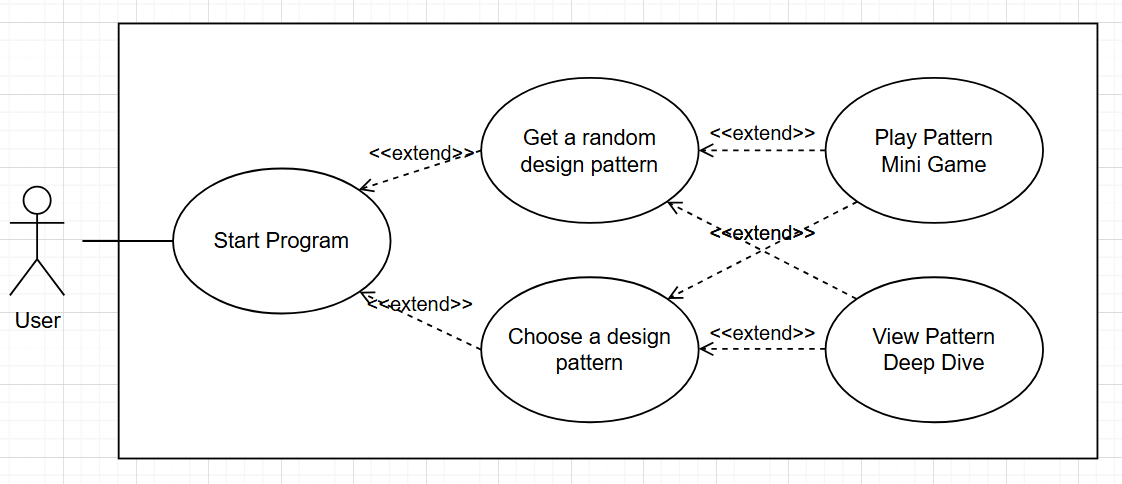
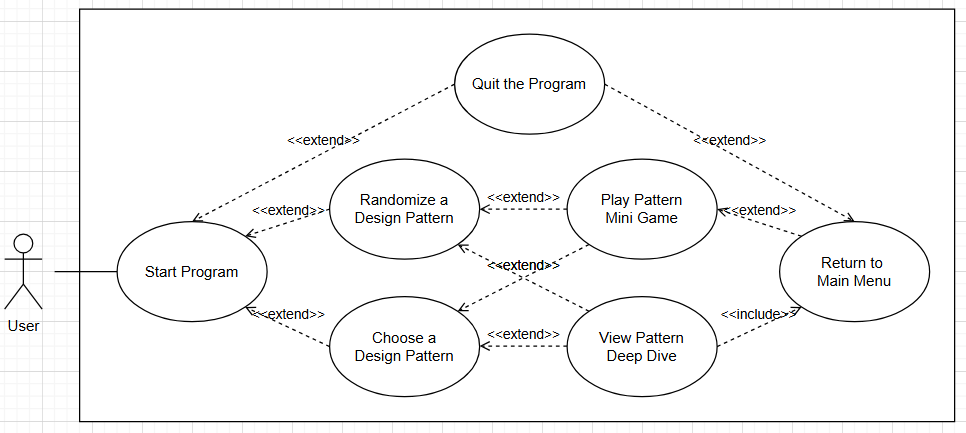
Add gif demo and update UCD and add file structure diagram in README

diff --git a/README.md b/README.md
@@ -60,6 +60,17 @@ It’s meant to clarify the concepts introduced in the mini-game, giving you a d
 
 ---
 
+## 🎬 Quick Demo
+
+![Quick Demo](diagrams/quick_demo.gif)
+
+Here’s a short demo showcasing how the program looks and behaves inside the CLI.
+It walks through the core features — from navigating the main menu, choosing a design pattern, and trying out the interactive mini-game or deep dive theory section.
+
+> 💡 This demo is meant to give a quick visual overview of how smooth and interactive the CLI experience is before trying it yourself.
+
+---
+
 ## ⚠ Known Bug: CLI Resize in VSCode
 
 ![CLI Resize Bug](diagrams/bug.png)
@@ -80,6 +91,18 @@ There’s a minor display issue when **resizing the terminal height** in VSCode 
 Here’s the system’s use case diagram for quick reference:
 
 ![Use Case Diagram](diagrams/use_case_diagram.png)
+
+---
+
+## 🗂 File Structure Diagram
+
+![File Structure Diagram](diagrams/file_structure_diagram.png)
+
+This diagram shows the **overall structure of the project**, making it easier to understand how everything is organized.
+
+The 'pattern' folder represents the skeleton for 23 different design patterns folder inside 'patterns' folder.
+
+* For example, inside 'patterns' folder we have 'strategy' folder which contains '__init__.py', 'strategy_game.py', and 'strategy_deepdive.py'.
 
 ---
 
